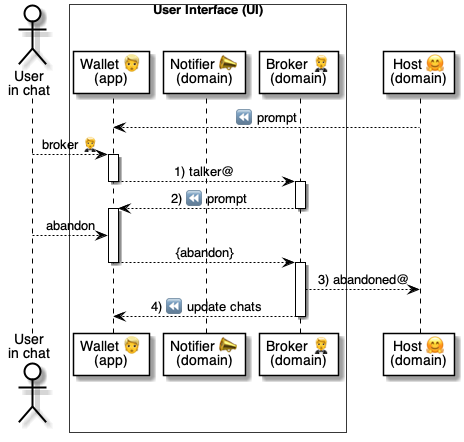
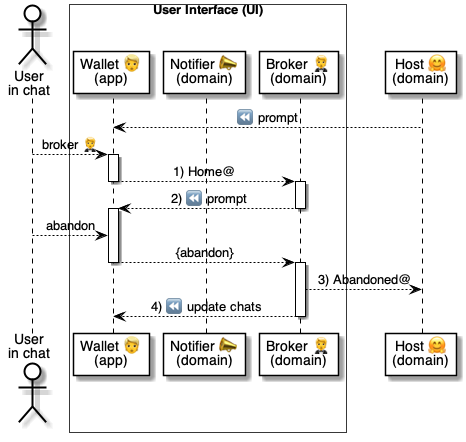
.

diff --git a/5 ⏩ Flows/02 🧑🦰👉 Wallets/30 👉🔗 Binds/03 🧑🦰👉🗄 Unbind.md b/5 ⏩ Flows/02 🧑🦰👉 Wallets/30 👉🔗 Binds/03 🧑🦰👉🗄 Unbind.md
@@ -2,11 +2,9 @@
 
 # 🧑🦰👉🗄 Unbind @ [Wallet](<../../../4 ⚙ Solution/20 🧑🦰 UI/01 🧑🦰 Wallets/01 🧑🦰 Wallet app.md>) 
 
-## About
+> Scenario: the user wants to unbind from a [Vault 🗄 domain](<../../../4 ⚙ Solution/20 🧑🦰 UI/24 🗄 Vaults/03 🗄🎭 Vault role.md>).
 
-- Scenario: the user wants to unbind from a [Vault 🗄](<../../../4 ⚙ Solution/20 🧑🦰 UI/24 🗄 Vaults/03 🗄🎭 Vault role.md>)
-
-
+<br/>
 
 ## Chat
 
@@ -20,18 +18,18 @@
 | 🤵 [Broker](<../../../4 ⚙ Solution/20 🧑🦰 UI/03 🤵 Brokers/03 🤵 Broker domain.md>) | ✅ Codes unbound.
 ||
 
-
-
-## Steps
-
-| # | Call | Notes
-|-|-|-
-| 1 | [🧑🦰🐌🤗 Talker @ Host](<../../../6 🅰 APIs/09 🤗🅰 Host/02 🧑🦰🐌🤗 Talker.md>) | Call the [Broker 🤵](<../../../4 ⚙ Solution/20 🧑🦰 UI/03 🤵 Brokers/03 🤵 Broker domain.md>) in a [Chat 💬](<../../../4 ⚙ Solution/20 🧑🦰 UI/23 💬 Chats/01 💬 Chat.md>)  with a [Host 🤗](<../../../4 ⚙ Solution/20 🧑🦰 UI/23 💬 Chats/03 🤗🎭 Host role.md>) 
-| 2 | [🤗⏩🧑🦰 Prompt @ Host](<../../03 🤗⏩ Hosts/01 🤗⏩🧑🦰 Prompt.md>) | Ask the [Broker 🤵](<../../../4 ⚙ Solution/20 🧑🦰 UI/03 🤵 Brokers/03 🤵 Broker domain.md>) to remove the  [Bind 🔗](<../../../4 ⚙ Solution/20 🧑🦰 UI/24 🗄 Vaults/01 🔗 Bind.md>)
-| 3 | [🤵🐌🗄 Unbound @ Vault](<../../../6 🅰 APIs/18 🗄🅰 Vault/02 🤵🐌🗄 Unbind.md>) | The [Broker 🤵](<../../../4 ⚙ Solution/20 🧑🦰 UI/03 🤵 Brokers/03 🤵 Broker domain.md>) unbinds and informs the [Vault 🗄](<../../../4 ⚙ Solution/20 🧑🦰 UI/24 🗄 Vaults/03 🗄🎭 Vault role.md>)
-| 4 | [🤵⏩🧑🦰 Update Binds @ Broker](<../../08 🤵⏩ Brokers/03 🤵⏩🧑🦰 Update binds.md>) | Asks the [Wallet 🧑🦰](<../../../4 ⚙ Solution/20 🧑🦰 UI/01 🧑🦰 Wallets/01 🧑🦰 Wallet app.md>) to update the [Binds 🔗](<../../../4 ⚙ Solution/20 🧑🦰 UI/24 🗄 Vaults/01 🔗 Bind.md>)
+<br/>
 
 
 ## Flow diagram
 
 ![alt text](<.📎 Assets/⚙ Unbind.png>)
+
+
+| # | Call | Notes
+|-|-|-
+| 1 | [🧑🦰🐌🤗 Home @ Host](<../../../6 🅰 APIs/09 🤗🅰 Host/02 🧑🦰🐌🤗 Home.md>) | Call the [Broker 🤵](<../../../4 ⚙ Solution/20 🧑🦰 UI/03 🤵 Brokers/03 🤵 Broker domain.md>) in a [Chat 💬](<../../../4 ⚙ Solution/20 🧑🦰 UI/23 💬 Chats/01 💬 Chat.md>)  with a [Host 🤗](<../../../4 ⚙ Solution/20 🧑🦰 UI/23 💬 Chats/03 🤗🎭 Host role.md>) 
+| 2 | [🤗⏩🧑🦰 Prompt @ Host](<../../03 🤗⏩ Hosts/01 🤗⏩🧑🦰 Prompt.md>) | Ask the [Broker 🤵](<../../../4 ⚙ Solution/20 🧑🦰 UI/03 🤵 Brokers/03 🤵 Broker domain.md>) to remove the  [Bind 🔗](<../../../4 ⚙ Solution/20 🧑🦰 UI/24 🗄 Vaults/01 🔗 Bind.md>)
+| 3 | [🤵🐌🗄 Unbound @ Vault](<../../../6 🅰 APIs/18 🗄🅰 Vault/02 🤵🐌🗄 Unbind.md>) | The [Broker 🤵](<../../../4 ⚙ Solution/20 🧑🦰 UI/03 🤵 Brokers/03 🤵 Broker domain.md>) unbinds and informs the [Vault 🗄](<../../../4 ⚙ Solution/20 🧑🦰 UI/24 🗄 Vaults/03 🗄🎭 Vault role.md>)
+| 4 | [🤵⏩🧑🦰 Update Binds @ Broker](<../../08 🤵⏩ Brokers/03 🤵⏩🧑🦰 Update binds.md>) | Asks the [Wallet 🧑🦰](<../../../4 ⚙ Solution/20 🧑🦰 UI/01 🧑🦰 Wallets/01 🧑🦰 Wallet app.md>) to update the [Binds 🔗](<../../../4 ⚙ Solution/20 🧑🦰 UI/24 🗄 Vaults/01 🔗 Bind.md>)
+|

diff --git a/5 ⏩ Flows/02 🧑🦰👉 Wallets/15 👉🔆 Locators/01 🧑🦰👉🤗 Scan host QR.md b/5 ⏩ Flows/02 🧑🦰👉 Wallets/15 👉🔆 Locators/01 🧑🦰👉🤗 Scan host QR.md
@@ -1,7 +1,7 @@
 # 🧑🦰👉🤗 Scan host locator @ [Wallet](<../../../4 ⚙ Solution/20 🧑🦰 UI/01 🧑🦰 Wallets/01 🧑🦰 Wallet app.md>) 
 
 
-> Scenario where the [Locator 🔆](<../../../4 ⚙ Solution/20 🧑🦰 UI/22 🔆 Locators/01 🔆 Locator.md>) is managed by the [Host 🤗](<../../../4 ⚙ Solution/20 🧑🦰 UI/23 💬 Chats/03 🤗🎭 Host role.md>)
+> Scenario where the [Locator 🔆](<../../../4 ⚙ Solution/20 🧑🦰 UI/22 🔆 Locators/01 🔆 Locator.md>) is managed by the [Host 🤗 domain](<../../../4 ⚙ Solution/20 🧑🦰 UI/23 💬 Chats/03 🤗🎭 Host role.md>)
 
 
 ## Chat
@@ -22,9 +22,9 @@
 
 | # | Call | Notes
 |-|-|-
-| 1 | [🧑🦰🚀🤵 Assess @ Broker](<../../../6 🅰 APIs/02 🤵🅰 Broker/30 🤵🅰 Chats 💬/01 🧑🦰🚀🤵 Assess.md>) | Parse the [Locator 🔆](<../../../4 ⚙ Solution/20 🧑🦰 UI/22 🔆 Locators/01 🔆 Locator.md>) in the [Broker 🤵](<../../../4 ⚙ Solution/20 🧑🦰 UI/03 🤵 Brokers/03 🤵 Broker domain.md>)
-| 2 | [🤵⏩🧑🦰 Assessed @ Broker](<../../08 🤵⏩ Brokers/01 🤵⏩🧑🦰 Assessed.md>) | Ask the [Wallet 🧑🦰](<../../../4 ⚙ Solution/20 🧑🦰 UI/01 🧑🦰 Wallets/01 🧑🦰 Wallet app.md>)  to open a chat window
-| 3 | [🔎⏩🧑🦰 Introduce @ Finder](<../../07 🔎⏩ Finders/01 🔎⏩🧑🦰 Introduce.md>) | Ask the [Finder 🔎](<../../../4 ⚙ Solution/30 🫥 Agents/10 🔎 Finders/02 🔎🫥 Finder vault.md>) to introduce the [Host 🤗](<../../../4 ⚙ Solution/20 🧑🦰 UI/23 💬 Chats/03 🤗🎭 Host role.md>)
-| 4 | [🤵🐌🤗 CheckIn @ Host](<../../../6 🅰 APIs/09 🤗🅰 Host/01 🤵🐌🤗 CheckIn.md>) | Ask the [Host 🤗](<../../../4 ⚙ Solution/20 🧑🦰 UI/23 💬 Chats/03 🤗🎭 Host role.md>) to interact.
-| 5 | [🤗⏩🧑🦰 Prompt @ Host](<../../03 🤗⏩ Hosts/01 🤗⏩🧑🦰 Prompt.md>) | The welcome message from the [Host 🤗](<../../../4 ⚙ Solution/20 🧑🦰 UI/23 💬 Chats/03 🤗🎭 Host role.md>) 
+| 1 | [🧑🦰🚀🤵 Assess @ Broker](<../../../6 🅰 APIs/02 🤵🅰 Broker/30 🤵🅰 Chats 💬/01 🧑🦰🚀🤵 Assess.md>) | Parse the [Locator 🔆](<../../../4 ⚙ Solution/20 🧑🦰 UI/22 🔆 Locators/01 🔆 Locator.md>) in the [Broker 🤵 domain](<../../../4 ⚙ Solution/20 🧑🦰 UI/03 🤵 Brokers/03 🤵 Broker domain.md>)
+| 2 | [🤵⏩🧑🦰 Assessed @ Broker](<../../08 🤵⏩ Brokers/01 🤵⏩🧑🦰 Assessed.md>) | Ask the [Wallet 🧑🦰 app](<../../../4 ⚙ Solution/20 🧑🦰 UI/01 🧑🦰 Wallets/01 🧑🦰 Wallet app.md>)  to open a chat window
+| 3 | [🔎⏩🧑🦰 Introduce @ Finder](<../../07 🔎⏩ Finders/01 🔎⏩🧑🦰 Introduce.md>) | Ask the [Finder 🔎 domain](<../../../4 ⚙ Solution/30 🫥 Agents/10 🔎 Finders/02 🔎🫥 Finder vault.md>) to introduce the [Host 🤗 domain](<../../../4 ⚙ Solution/20 🧑🦰 UI/23 💬 Chats/03 🤗🎭 Host role.md>)
+| 4 | [🤵🐌🤗 CheckIn @ Host](<../../../6 🅰 APIs/09 🤗🅰 Host/01 🤵🐌🤗 CheckIn.md>) | Ask the [Host 🤗 domain](<../../../4 ⚙ Solution/20 🧑🦰 UI/23 💬 Chats/03 🤗🎭 Host role.md>) to interact
+| 5 | [🤗⏩🧑🦰 Prompt @ Host](<../../03 🤗⏩ Hosts/01 🤗⏩🧑🦰 Prompt.md>) | The welcome message from the [Host 🤗 domain](<../../../4 ⚙ Solution/20 🧑🦰 UI/23 💬 Chats/03 🤗🎭 Host role.md>) 
 ||

diff --git a/4 ⚙ Solution/20 🧑🦰 UI/01 🧑🦰 Wallets/01 🧑🦰 Wallet app.md b/4 ⚙ Solution/20 🧑🦰 UI/01 🧑🦰 Wallets/01 🧑🦰 Wallet app.md
@@ -132,15 +132,19 @@
     <br/>
 
 
-1. **What workflows exist in a Wallet app?**
+1. **What workflows can users execute in a Wallet app?**
 
     | Category | Workflow | Target | Description
     |-|-|-|-
-    | `Set up` | [Onboard 👉](<../../../5 ⏩ Flows/02 🧑🦰👉 Wallets/10 👉🤵 Set-up/11 🧑🦰👉🤵 Onboard.md>) | [🤵 Broker](<../03 🤵 Brokers/03 🤵 Broker domain.md>) | Initializes a [Wallet 🧑🦰 app](<01 🧑🦰 Wallet app.md>) on a [Broker 🤵 domain](<../03 🤵 Brokers/03 🤵 Broker domain.md>).
-    | | [Translate 👉](<../../../5 ⏩ Flows/02 🧑🦰👉 Wallets/10 👉🤵 Set-up/12 🧑🦰👉🤵 Translate.md>) | [🤵 Broker](<../03 🤵 Brokers/03 🤵 Broker domain.md>) | Changes the language of the [Wallet 🧑🦰 app](<01 🧑🦰 Wallet app.md>).
-    |`Locators`|[Scan host QR](<../../../5 ⏩ Flows/02 🧑🦰👉 Wallets/15 👉🔆 Locators/01 🧑🦰👉🤗 Scan host QR.md>)
-    |[Scan printer QR](<../../../5 ⏩ Flows/02 🧑🦰👉 Wallets/15 👉🔆 Locators/02 🧑🦰👉🤗 Scan printer QR.md>)
-    ||
+    | 🤵 Set up | [👉 Onboard](<../../../5 ⏩ Flows/02 🧑🦰👉 Wallets/10 👉🤵 Set-up/11 🧑🦰👉🤵 Onboard.md>) | [🤵 Broker](<../03 🤵 Brokers/03 🤵 Broker domain.md>) | Initializes a [Wallet 🧑🦰 app](<01 🧑🦰 Wallet app.md>) on a [Broker 🤵 domain](<../03 🤵 Brokers/03 🤵 Broker domain.md>).
+    | | [👉 Translate](<../../../5 ⏩ Flows/02 🧑🦰👉 Wallets/10 👉🤵 Set-up/12 🧑🦰👉🤵 Translate.md>) | [🤵 Broker](<../03 🤵 Brokers/03 🤵 Broker domain.md>) | Changes the language of the [Wallet 🧑🦰 app](<01 🧑🦰 Wallet app.md>).
+    | 🔆 Locators |[👉 Host QR](<../../../5 ⏩ Flows/02 🧑🦰👉 Wallets/15 👉🔆 Locators/01 🧑🦰👉🤗 Scan host QR.md>) | [🤗 Host](<../../../4 ⚙ Solution/20 🧑🦰 UI/23 💬 Chats/03 🤗🎭 Host role.md>) | The [Host 🤗 domain](<../../../4 ⚙ Solution/20 🧑🦰 UI/23 💬 Chats/03 🤗🎭 Host role.md>) presented a QR to the user.
+    ||[👉 Printer QR](<../../../5 ⏩ Flows/02 🧑🦰👉 Wallets/15 👉🔆 Locators/02 🧑🦰👉🤗 Scan printer QR.md>) | [🤗 Host](<../../../4 ⚙ Solution/20 🧑🦰 UI/23 💬 Chats/03 🤗🎭 Host role.md>) | The user presented a QR to the [Host 🤗 domain](<../../../4 ⚙ Solution/20 🧑🦰 UI/23 💬 Chats/03 🤗🎭 Host role.md>).  
+    |💬 Chats|[👉 List chats](<../../../5 ⏩ Flows/02 🧑🦰👉 Wallets/20 👉💬 Chats/01 🧑🦰👉🤵 List chats.md>) | [🤵 Broker](<../03 🤵 Brokers/03 🤵 Broker domain.md>)
+    ||[👉 Home](<../../../5 ⏩ Flows/02 🧑🦰👉 Wallets/20 👉💬 Chats/02 🧑🦰👉🤵 Host home.md>) | [🤗 Host](<../../../4 ⚙ Solution/20 🧑🦰 UI/23 💬 Chats/03 🤗🎭 Host role.md>)
+    ||[👉 Abandon](<../../../5 ⏩ Flows/02 🧑🦰👉 Wallets/20 👉💬 Chats/03 🧑🦰👉🤵 Abandon chat.md>) | [🤵 Broker](<../03 🤵 Brokers/03 🤵 Broker domain.md>)
+    | 🔗 Binds | [👉 List binds ](<../../../5 ⏩ Flows/02 🧑🦰👉 Wallets/30 👉🔗 Binds/01 🧑🦰👉🤵 List binds.md>) |[🤵 Broker](<../03 🤵 Brokers/03 🤵 Broker domain.md>)
+    [text](<../../../5 ⏩ Flows/02 🧑🦰👉 Wallets/30 👉🔗 Binds/03 🧑🦰👉🗄 Unbind.md>)
 
     ---
     <br/>

diff --git a/4 ⚙ Solution/20 🧑🦰 UI/23 💬 Chats/03 🤗🎭 Host role.md b/4 ⚙ Solution/20 🧑🦰 UI/23 💬 Chats/03 🤗🎭 Host role.md
@@ -114,16 +114,16 @@
 
     | Caller | Method | Store | Description
     |-|-|-|-
-    Broker | [🤵🐌🤗 CheckIn](<../../../6 🅰 APIs/09 🤗🅰 Host/01 🤵🐌🤗 CheckIn.md>) | Chats | The user started a Chat.
-    Wallet | [🧑🦰🐌🤗 Talker](<../../../6 🅰 APIs/09 🤗🅰 Host/02 🧑🦰🐌🤗 Talker.md>) | Chats | Show the top menu on the Chat.
-    Broker | [🤵🐌🤗 Abandoned](<../../../6 🅰 APIs/09 🤗🅰 Host/03 🤵🐌🤗 Abandoned.md>) | Chats | The user abandoned a Chat.
-    Wallet | [🧑🦰🚀🤗 Prompted](<../../../6 🅰 APIs/09 🤗🅰 Host/04 🧑🦰🚀🤗 Prompted.md>) | Prompts | Return the Prompt's content.
-    Wallet | [🧑🦰🐌🤗 Reply](<../../../6 🅰 APIs/09 🤗🅰 Host/05 🧑🦰🐌🤗 Reply.md>) | Prompts | Accept the reply to the Prompt.
-    Wallet | [🧑🦰🚀🤗 Download](<../../../6 🅰 APIs/09 🤗🅰 Host/06 🧑🦰🚀🤗 Download.md>) | Attachments | Download the attachment.
-    Wallet | [🧑🦰🚀🤗 Upload](<../../../6 🅰 APIs/09 🤗🅰 Host/07 🧑🦰🚀🤗 Upload.md>) | Attachments | Upload an attachment.
-    Palmist | [🖐🐌🤗 Found](<../../../6 🅰 APIs/09 🤗🅰 Host/08 🖐🐌🤗 Found.md>) | Chats | A Palmist found the Chat's user.
-    Reviewer | [⭐🐌🤗 Rated](<../../../6 🅰 APIs/09 🤗🅰 Host/09 ⭐🐌🤗 Rated.md>) | Chats | The Chat received user reviews.
-    Broker | [🤵🐌🤗 Summarize](<../../../6 🅰 APIs/09 🤗🅰 Host/10 🤵🐌🤗 Summarize.md>) | Chats | Return an advertising summary.
+    🤵 Broker | [🐌 CheckIn](<../../../6 🅰 APIs/09 🤗🅰 Host/01 🤵🐌🤗 CheckIn.md>) | Chats | The user started a Chat.
+    🧑🦰 Wallet | [🐌 Home](<../../../6 🅰 APIs/09 🤗🅰 Host/02 🧑🦰🐌🤗 Home.md>) | Chats | Show the top menu on the Chat.
+    🤵 Broker | [🐌 Abandoned](<../../../6 🅰 APIs/09 🤗🅰 Host/03 🤵🐌🤗 Abandoned.md>) | Chats | The user abandoned a Chat.
+    🧑🦰 Wallet | [🚀 Prompted](<../../../6 🅰 APIs/09 🤗🅰 Host/04 🧑🦰🚀🤗 Prompted.md>) | Prompts | Return the Prompt's content.
+    🧑🦰 Wallet | [🐌 Reply](<../../../6 🅰 APIs/09 🤗🅰 Host/05 🧑🦰🐌🤗 Reply.md>) | Prompts | Accept the reply to the Prompt.
+    🧑🦰 Wallet | [🚀 Download](<../../../6 🅰 APIs/09 🤗🅰 Host/06 🧑🦰🚀🤗 Download.md>) | Attachments | Download the attachment.
+    🧑🦰 Wallet | [🚀 Upload](<../../../6 🅰 APIs/09 🤗🅰 Host/07 🧑🦰🚀🤗 Upload.md>) | Attachments | Upload an attachment.
+    🖐 Palmist | [🐌 Found](<../../../6 🅰 APIs/09 🤗🅰 Host/08 🖐🐌🤗 Found.md>) | Chats | A Palmist found the Chat's user.
+    ⭐ Reviewer | [🐌 Rated](<../../../6 🅰 APIs/09 🤗🅰 Host/09 ⭐🐌🤗 Rated.md>) | Chats | The Chat received user reviews.
+    🤵 Broker | [🐌 Summarize](<../../../6 🅰 APIs/09 🤗🅰 Host/10 🤵🐌🤗 Summarize.md>) | Chats | Return an advertising summary.
 
     ---
     <br/>

diff --git a/5 ⏩ Flows/02 🧑🦰👉 Wallets/40 👉🎫 Tokens/03 🧑🦰👉🤵 Remove token.md b/5 ⏩ Flows/02 🧑🦰👉 Wallets/40 👉🎫 Tokens/03 🧑🦰👉🤵 Remove token.md
@@ -20,17 +20,17 @@
 ||
 
 
-## Steps
-
-| # | API | Description
-|-|-|-
-| 1 | [🧑🦰🐌🤗 Talker @ Host](<../../../6 🅰 APIs/09 🤗🅰 Host/02 🧑🦰🐌🤗 Talker.md>) | The user calls the [Broker 🤵](<../../../4 ⚙ Solution/20 🧑🦰 UI/03 🤵 Brokers/03 🤵 Broker domain.md>) from the [Token 🎫](<../../../4 ⚙ Solution/20 🧑🦰 UI/25 🎫 Tokens/01 🎫 Token.md>)
-| 2 | [🤗⏩🧑🦰 Prompt @ Host](<../../03 🤗⏩ Hosts/01 🤗⏩🧑🦰 Prompt.md>) | Then tells the [Broker 🤵](<../../../4 ⚙ Solution/20 🧑🦰 UI/03 🤵 Brokers/03 🤵 Broker domain.md>) to remove the [Token 🎫](<../../../4 ⚙ Solution/20 🧑🦰 UI/25 🎫 Tokens/01 🎫 Token.md>) 
-| 3 | [🤵⏩🎫 Update Tokens @ Broker](<../../08 🤵⏩ Brokers/04 🤵⏩🧑🦰 Update tokens.md>) | The [Broker 🤵](<../../../4 ⚙ Solution/20 🧑🦰 UI/03 🤵 Brokers/03 🤵 Broker domain.md>) tells the [Wallet 🧑🦰](<../../../4 ⚙ Solution/20 🧑🦰 UI/01 🧑🦰 Wallets/01 🧑🦰 Wallet app.md>) to update the list
-| 4 | [🤵🐌📣 Remove @ Notifier](<../../../6 🅰 APIs/12 📣🅰 Notifier/04 📣🎫🅰 Tokens/42 🤵🐌📣 Remove.md>) | The [Broker 🤵](<../../../4 ⚙ Solution/20 🧑🦰 UI/03 🤵 Brokers/03 🤵 Broker domain.md>) tells the [Wallet 🧑🦰](<../../../4 ⚙ Solution/20 🧑🦰 UI/01 🧑🦰 Wallets/01 🧑🦰 Wallet app.md>) to remove it
-||
-
 
 ## Flow diagram
 
 ![alt text](<.📎 Assets/⚙ Remove.png>)
+
+
+
+| # | API | Description
+|-|-|-
+| 1 | [🧑🦰🐌🤗 Home @ Host](<../../../6 🅰 APIs/09 🤗🅰 Host/02 🧑🦰🐌🤗 Home.md>) | The user calls the [Broker 🤵](<../../../4 ⚙ Solution/20 🧑🦰 UI/03 🤵 Brokers/03 🤵 Broker domain.md>) from the [Token 🎫](<../../../4 ⚙ Solution/20 🧑🦰 UI/25 🎫 Tokens/01 🎫 Token.md>)
+| 2 | [🤗⏩🧑🦰 Prompt @ Host](<../../03 🤗⏩ Hosts/01 🤗⏩🧑🦰 Prompt.md>) | Then tells the [Broker 🤵](<../../../4 ⚙ Solution/20 🧑🦰 UI/03 🤵 Brokers/03 🤵 Broker domain.md>) to remove the [Token 🎫](<../../../4 ⚙ Solution/20 🧑🦰 UI/25 🎫 Tokens/01 🎫 Token.md>) 
+| 3 | [🤵⏩🎫 Update Tokens @ Broker](<../../08 🤵⏩ Brokers/04 🤵⏩🧑🦰 Update tokens.md>) | The [Broker 🤵](<../../../4 ⚙ Solution/20 🧑🦰 UI/03 🤵 Brokers/03 🤵 Broker domain.md>) tells the [Wallet 🧑🦰](<../../../4 ⚙ Solution/20 🧑🦰 UI/01 🧑🦰 Wallets/01 🧑🦰 Wallet app.md>) to update the list
+| 4 | [🤵🐌📣 Remove @ Notifier](<../../../6 🅰 APIs/12 📣🅰 Notifier/04 📣🎫🅰 Tokens/42 🤵🐌📣 Remove.md>) | The [Broker 🤵](<../../../4 ⚙ Solution/20 🧑🦰 UI/03 🤵 Brokers/03 🤵 Broker domain.md>) tells the [Wallet 🧑🦰](<../../../4 ⚙ Solution/20 🧑🦰 UI/01 🧑🦰 Wallets/01 🧑🦰 Wallet app.md>) to remove it
+||

diff --git a/5 ⏩ Flows/02 🧑🦰👉 Wallets/20 👉💬 Chats/02 🧑🦰👉🤵 Host home.md b/5 ⏩ Flows/02 🧑🦰👉 Wallets/20 👉💬 Chats/02 🧑🦰👉🤵 Host home.md
@@ -1,0 +1,34 @@
+# 🧑🦰👉🤗 Chat home @ [Wallet](<../../../4 ⚙ Solution/20 🧑🦰 UI/01 🧑🦰 Wallets/01 🧑🦰 Wallet app.md>)
+
+
+## Chat
+
+
+| Service | Prompt | User
+| - | - | - |
+...
+| 🤗 [Host](<../../../4 ⚙ Solution/20 🧑🦰 UI/23 💬 Chats/03 🤗🎭 Host role.md>) | 😃 Lost is maze? [Yes, No] 
+| | | > Broker 🤵 |
+| 🤵 [Broker](<../../../4 ⚙ Solution/20 🧑🦰 UI/03 🤵 Brokers/03 🤵 Broker domain.md>) | 🫥 What do you need? <br/> - [ Home ] menu <br/> - [ Something else ] | > Home
+| 🤗 [Host](<../../../4 ⚙ Solution/20 🧑🦰 UI/23 💬 Chats/03 🤗🎭 Host role.md>) | 😃 What do you need? <br/> - [ Something ] <br> - [ Something else ]  | 
+||
+
+
+## Flow Diagram
+
+![Talker](<.📎 Assets/⚙ Home.png>)
+
+
+| # | Call | Notes
+|-|-|-
+| 1 | [🧑🦰🐌🤗 Home @ Host](<../../../6 🅰 APIs/09 🤗🅰 Host/02 🧑🦰🐌🤗 Home.md>) | Ask the [Host 🤗 domain](<../../../4 ⚙ Solution/20 🧑🦰 UI/23 💬 Chats/03 🤗🎭 Host role.md>) to show the talker 
+| 2 | [🤗⏩🧑🦰 Prompt @ Host](<../../03 🤗⏩ Hosts/01 🤗⏩🧑🦰 Prompt.md>) | Show the home menu in the [Wallet 🧑🦰 app](<../../../4 ⚙ Solution/20 🧑🦰 UI/01 🧑🦰 Wallets/01 🧑🦰 Wallet app.md>)
+||
+
+
+| # | Call | Notes
+|-|-|-
+| 1 | [🧑🦰🐌🤗 Home @ Host](<../../../6 🅰 APIs/09 🤗🅰 Host/02 🧑🦰🐌🤗 Home.md>) | Call the [Broker 🤵 domain](<../../../4 ⚙ Solution/20 🧑🦰 UI/03 🤵 Brokers/03 🤵 Broker domain.md>) in a [Chat 💬](<../../../4 ⚙ Solution/20 🧑🦰 UI/23 💬 Chats/01 💬 Chat.md>)  with a [Host 🤗 domain](<../../../4 ⚙ Solution/20 🧑🦰 UI/23 💬 Chats/03 🤗🎭 Host role.md>) 
+| 2 | [🤗⏩🧑🦰 Prompt @ Host](<../../03 🤗⏩ Hosts/01 🤗⏩🧑🦰 Prompt.md>) | Ask the [Broker 🤵 domain](<../../../4 ⚙ Solution/20 🧑🦰 UI/03 🤵 Brokers/03 🤵 Broker domain.md>) to abandon the [Chat 💬](<../../../4 ⚙ Solution/20 🧑🦰 UI/23 💬 Chats/01 💬 Chat.md>) 
+| 3 | [🤵🐌🤗 Abandoned @ Host](<../../../6 🅰 APIs/09 🤗🅰 Host/03 🤵🐌🤗 Abandoned.md>) | The [Broker 🤵 domain](<../../../4 ⚙ Solution/20 🧑🦰 UI/03 🤵 Brokers/03 🤵 Broker domain.md>) informs the [Host 🤗 domain](<../../../4 ⚙ Solution/20 🧑🦰 UI/23 💬 Chats/03 🤗🎭 Host role.md>) about it
+| 4 | [🤵⏩🧑🦰 Update Chats @ Broker](<../../08 🤵⏩ Brokers/05 🤵⏩🧑🦰 Update chats.md>) | The [Broker 🤵 domain](<../../../4 ⚙ Solution/20 🧑🦰 UI/03 🤵 Brokers/03 🤵 Broker domain.md>) asks the [Wallet 🧑🦰 app](<../../../4 ⚙ Solution/20 🧑🦰 UI/01 🧑🦰 Wallets/01 🧑🦰 Wallet app.md>) to refresh the list

diff --git a/5 ⏩ Flows/02 🧑🦰👉 Wallets/20 👉💬 Chats/03 🧑🦰👉🤵 Abandon chat.md b/5 ⏩ Flows/02 🧑🦰👉 Wallets/20 👉💬 Chats/03 🧑🦰👉🤵 Abandon chat.md
@@ -22,7 +22,7 @@
 
 | # | Call | Notes
 |-|-|-
-| 1 | [🧑🦰🐌🤗 Talker @ Host](<../../../6 🅰 APIs/09 🤗🅰 Host/02 🧑🦰🐌🤗 Talker.md>) | Call the [Broker 🤵 domain](<../../../4 ⚙ Solution/20 🧑🦰 UI/03 🤵 Brokers/03 🤵 Broker domain.md>) in a [Chat 💬](<../../../4 ⚙ Solution/20 🧑🦰 UI/23 💬 Chats/01 💬 Chat.md>)  with a [Host 🤗 domain](<../../../4 ⚙ Solution/20 🧑🦰 UI/23 💬 Chats/03 🤗🎭 Host role.md>) 
+| 1 | [🧑🦰🐌🤗 Home @ Host](<../../../6 🅰 APIs/09 🤗🅰 Host/02 🧑🦰🐌🤗 Home.md>) | Call the [Broker 🤵 domain](<../../../4 ⚙ Solution/20 🧑🦰 UI/03 🤵 Brokers/03 🤵 Broker domain.md>) in a [Chat 💬](<../../../4 ⚙ Solution/20 🧑🦰 UI/23 💬 Chats/01 💬 Chat.md>)  with a [Host 🤗 domain](<../../../4 ⚙ Solution/20 🧑🦰 UI/23 💬 Chats/03 🤗🎭 Host role.md>) 
 | 2 | [🤗⏩🧑🦰 Prompt @ Host](<../../03 🤗⏩ Hosts/01 🤗⏩🧑🦰 Prompt.md>) | Ask the [Broker 🤵 domain](<../../../4 ⚙ Solution/20 🧑🦰 UI/03 🤵 Brokers/03 🤵 Broker domain.md>) to abandon the [Chat 💬](<../../../4 ⚙ Solution/20 🧑🦰 UI/23 💬 Chats/01 💬 Chat.md>) 
 | 3 | [🤵🐌🤗 Abandoned @ Host](<../../../6 🅰 APIs/09 🤗🅰 Host/03 🤵🐌🤗 Abandoned.md>) | The [Broker 🤵 domain](<../../../4 ⚙ Solution/20 🧑🦰 UI/03 🤵 Brokers/03 🤵 Broker domain.md>) informs the [Host 🤗 domain](<../../../4 ⚙ Solution/20 🧑🦰 UI/23 💬 Chats/03 🤗🎭 Host role.md>) about it
 | 4 | [🤵⏩🧑🦰 Update Chats @ Broker](<../../08 🤵⏩ Brokers/05 🤵⏩🧑🦰 Update chats.md>) | The [Broker 🤵 domain](<../../../4 ⚙ Solution/20 🧑🦰 UI/03 🤵 Brokers/03 🤵 Broker domain.md>) asks the [Wallet 🧑🦰 app](<../../../4 ⚙ Solution/20 🧑🦰 UI/01 🧑🦰 Wallets/01 🧑🦰 Wallet app.md>) to refresh the list

diff --git a/6 🅰 APIs/09 🤗🅰 Host/02 🧑🦰🐌🤗 Home.md b/6 🅰 APIs/09 🤗🅰 Host/02 🧑🦰🐌🤗 Home.md
@@ -1,0 +1,18 @@
+<!-- #TODO -->
+
+# 🧑🦰🐌🤗 Home @ [Host](<../../4 ⚙ Solution/20 🧑🦰 UI/23 💬 Chats/03 🤗🎭 Host role.md>)
+
+> Shows the Host's main menu.
+
+> Used by:
+> <br/>* [🧑🦰👉🤵 Abandon session](<../../5 ⏩ Flows/02 🧑🦰👉 Wallets/20 👉💬 Chats/03 🧑🦰👉🤵 Abandon chat.md>)
+> <br/>* [🧑🦰👉🤵 Host home](<../../5 ⏩ Flows/02 🧑🦰👉 Wallets/20 👉💬 Chats/02 🧑🦰👉🤵 Host home.md>)
+
+<br/>
+
+## Chat
+
+| Service | Prompt | User
+| - | - | - |
+| 🤗 [Host](<../../../4 ⚙ Solution/20 🧑🦰 UI/23 💬 Chats/03 🤗🎭 Host role.md>) | 😃 What do you need? <br/> - [ Something ] <br> - [ Something else ]  | 
+||

diff --git a/6 🅰 APIs/09 🤗🅰 Host/01 🤵🐌🤗 CheckIn.md b/6 🅰 APIs/09 🤗🅰 Host/01 🤵🐌🤗 CheckIn.md
@@ -2,7 +2,7 @@
 
 # 🤵🐌🤗 CheckIn @ Host
 
-> Starts a [Chat 💬](<../../4 ⚙ Solution/20 🧑🦰 UI/23 💬 Chats/01 💬 Chat.md>).
+> Starts a [Chat 💬](<../../4 ⚙ Solution/20 🧑🦰 UI/23 💬 Chats/01 💬 Chat.md>) with a [Host 🤗 domain](<../../4 ⚙ Solution/20 🧑🦰 UI/23 💬 Chats/03 🤗🎭 Host role.md>).
 
 <br/> 
 
